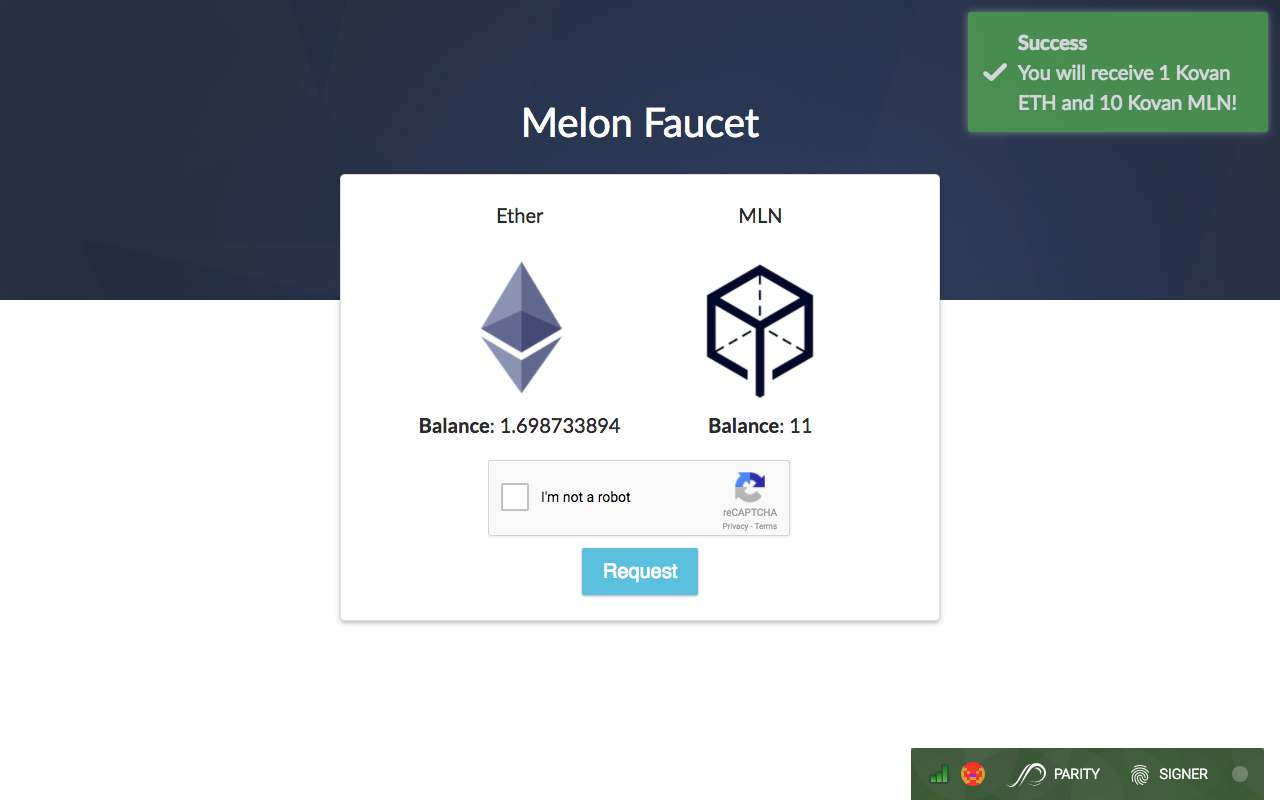
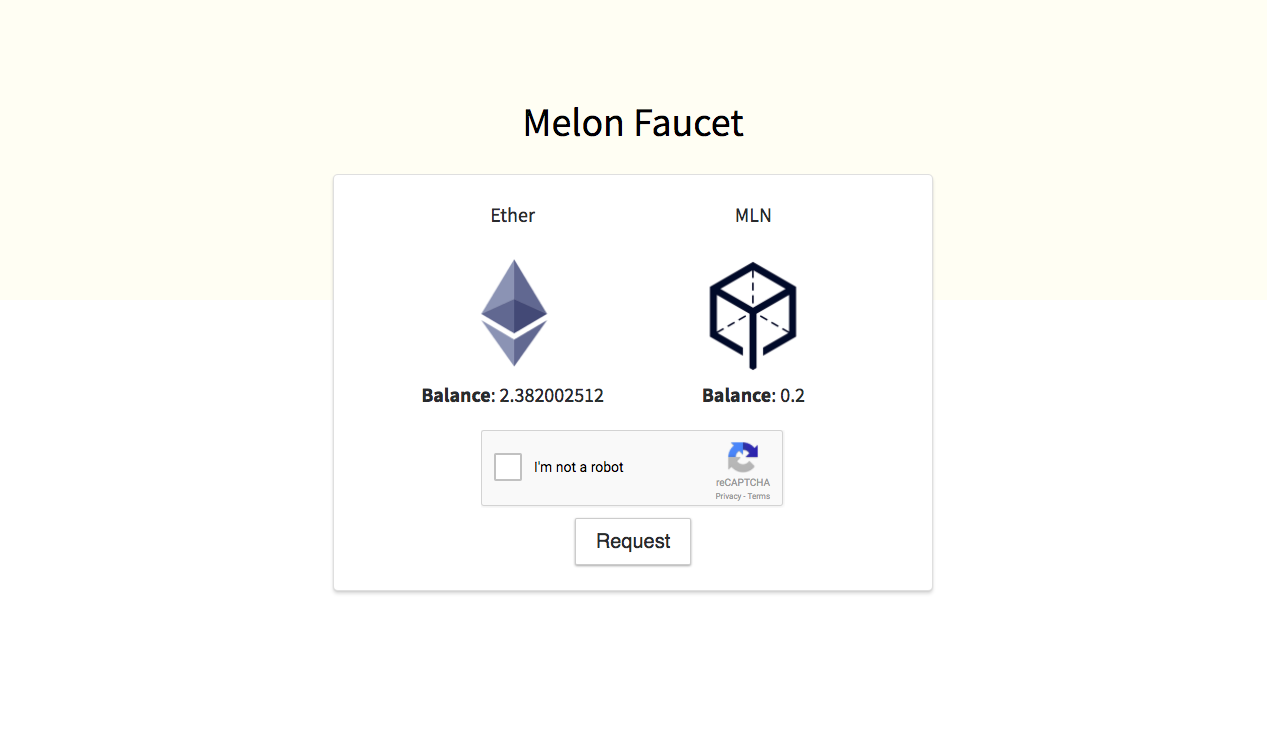
Changed styling to match portal

diff --git a/client/main.css b/client/main.css
@@ -1,20 +1,21 @@
+@import url('https://fonts.googleapis.com/css?family=Source Sans Pro:400,700,400italic,700italic&subset=latin');/*!
 /* CSS declarations go here */
-body{font-family:'Lato','Helvetica Neue',Helvetica,sans-serif !important;}
+body{font-family:'Source Sans Pro','Helvetica Neue',Arial,Helvetica,sans-serif !important}
 
 .ribbon {
   padding: 100px;
   height: 300px;
-  background: url(https://melon.network/dist/img/bgr_hero.png);
+  background: #fffdf3;
   text-align: -webkit-center;
   margin-bottom: 20px;
 }
 
 .card {
-  box-shadow: 0 2px 5px 0 rgba(0, 0, 0, 0.16), 0 2px 10px 0 rgba(0, 0, 0, 0.12);
+  box-shadow: 0 1px 1px 0 rgba(0, 0, 0, 0.08), 0 3px 4px 0 rgba(0, 0, 0, 0.12);
 }
 
 .card img {
-  width: 160px;
+  width: 130px;
 }
 
 .card .btn {
@@ -25,5 +26,5 @@ body{font-family:'Lato','Helvetica Neue',Helvetica,sans-serif !important;}
 
 .title {
   margin-bottom: 30px;
-  color: white;
+  color: #000000;
 }

diff --git a/client/main.html b/client/main.html
@@ -1,7 +1,6 @@
 <head>
   <title>Melon Faucet</title>
   <link rel="stylesheet" href="https://maxcdn.bootstrapcdn.com/bootstrap/4.0.0-alpha.6/css/bootstrap.min.css" integrity="sha384-rwoIResjU2yc3z8GV/NPeZWAv56rSmLldC3R/AZzGRnGxQQKnKkoFVhFQhNUwEyJ" crossorigin="anonymous">
-  <link href="https://fonts.googleapis.com/css?family=Lato:400,700,400italic,700italic" rel="stylesheet" type="text/css">
   <link rel="stylesheet" href="https://cdnjs.cloudflare.com/ajax/libs/toastr.js/latest/toastr.min.css">
   <script src='https://www.google.com/recaptcha/api.js'></script>
   <script src="https://code.jquery.com/jquery-3.2.1.min.js" integrity="sha256-hwg4gsxgFZhOsEEamdOYGBf13FyQuiTwlAQgxVSNgt4=" crossorigin="anonymous"></script>

diff --git a/imports/ui/dashboard.html b/imports/ui/dashboard.html
@@ -21,7 +21,7 @@
               </div>
             </div>
             {{> captcha}}
-            <button class="btn btn-info">Request</button>
+            <button class="btn btn-secondary">Request</button>
           </div>
         </div>
       </div>
